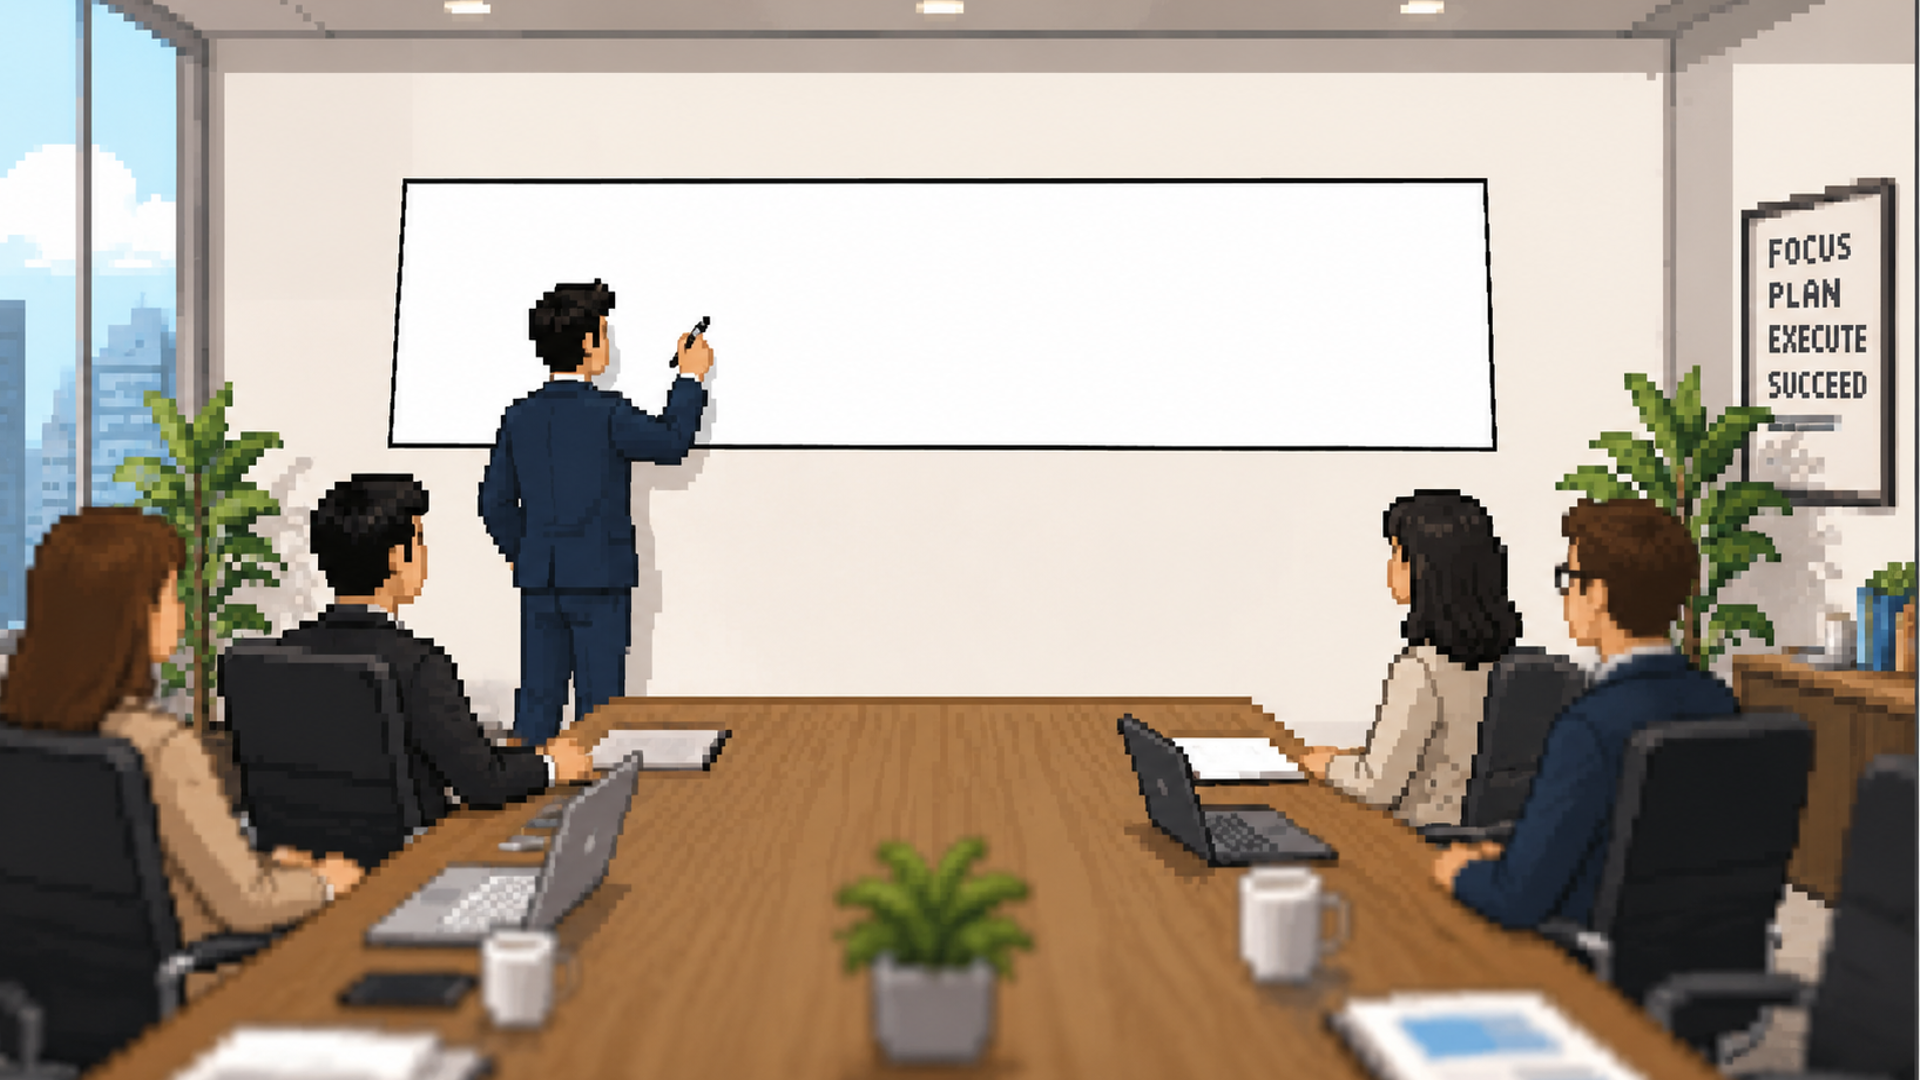
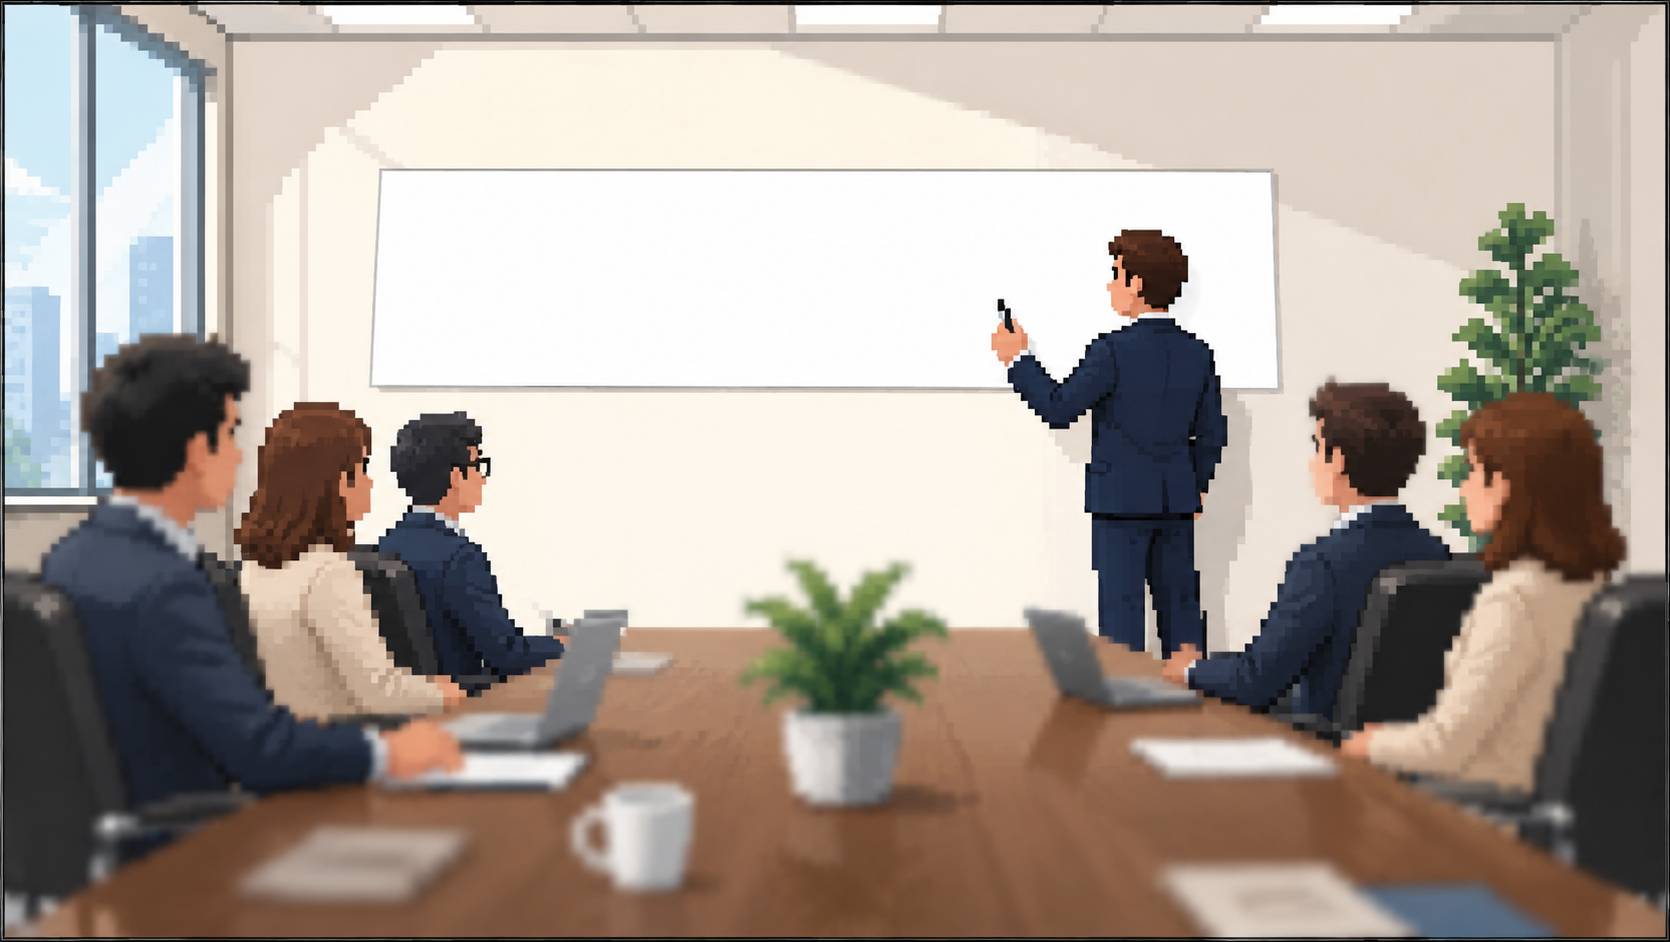
Update battle background and cursors

diff --git a/web-battle/src/styles.css b/web-battle/src/styles.css
@@ -59,7 +59,7 @@ html, body {
 body {
   font-family: "Fusion Pixel SC", "Fusion Pixel", "Press Start 2P", monospace;
   /* 全局像素 2.5D 鼠标指针：金色箭头 + 阴影，热点 (1,0) */
-  cursor: url("/cursors/arrow.svg") 1 0, default;
+  cursor: url("/cursors/arrow.svg?v=solid-black-20260521") 7 2, default;
 }
 
 #root {
@@ -112,7 +112,7 @@ input[type="range"],
 input[type="range"]::-webkit-slider-thumb,
 input[type="checkbox"],
 select {
-  cursor: url("/cursors/hand.svg") 28 10, pointer;
+  cursor: url("/cursors/hand.svg?v=white-black-fill-20260521") 10 0, pointer;
 }
 
 /* 禁用态按钮恢复箭头 */
@@ -120,13 +120,13 @@ button:disabled,
 .candidate:disabled,
 .pack-card:disabled,
 [aria-disabled="true"] {
-  cursor: url("/cursors/arrow.svg") 1 0, not-allowed;
+  cursor: url("/cursors/arrow.svg?v=solid-black-20260521") 7 2, not-allowed;
 }
 
 /* 拖拽中的卡牌：沿用侧面食指，保留 grabbing fallback */
 .card-view.dragging,
 .card-view[draggable="true"]:active {
-  cursor: url("/cursors/hand.svg") 28 10, grabbing;
+  cursor: url("/cursors/hand.svg?v=white-black-fill-20260521") 10 0, grabbing;
 }
 
 button {
@@ -585,7 +585,7 @@ button {
 .battle-photo-bg {
   z-index: 0;
   background:
-    url("/assets/battle/battlebackground.png") center / cover no-repeat,
+    url("/assets/battle/battlebackground.png?v=image1-20260521") center / cover no-repeat,
     #dcecf5;
   image-rendering: pixelated;
   image-rendering: crisp-edges;
@@ -594,17 +594,7 @@ button {
 
 .battle-crt-overlay {
   z-index: 0;
-  background:
-    repeating-linear-gradient(
-      0deg,
-      rgba(255, 255, 255, 0.055) 0 1px,
-      rgba(38, 45, 55, 0.055) 1px 3px,
-      transparent 3px 5px
-    ),
-    radial-gradient(ellipse at center, transparent 58%, rgba(44, 50, 58, 0.2) 100%),
-    linear-gradient(90deg, rgba(255, 255, 255, 0.12), rgba(230, 234, 238, 0.1));
-  mix-blend-mode: luminosity;
-  opacity: 0.54;
+  background: rgba(255, 255, 255, 0.5);
 }
 
 .top-hud,
@@ -3134,6 +3124,11 @@ button {
 .card-stage.slot {
   width: min(109px, 100%);
   height: 151px;
+}
+
+/* slot 禁用 ::after 伪元素提示（改用浮动 portal 提示） */
+.card-stage.slot::after {
+  display: none;
 }
 
 .card-view.slot .neighbor-cue .left,
@@ -7831,19 +7826,19 @@ input[type="range"],
 input[type="range"]::-webkit-slider-thumb,
 input[type="checkbox"],
 select {
-  cursor: url("/cursors/hand.svg") 28 10, pointer;
+  cursor: url("/cursors/hand.svg?v=white-black-fill-20260521") 10 0, pointer;
 }
 
 button:disabled,
 .candidate:disabled,
 .pack-card:disabled,
 [aria-disabled="true"] {
-  cursor: url("/cursors/arrow.svg") 1 0, not-allowed;
+  cursor: url("/cursors/arrow.svg?v=solid-black-20260521") 7 2, not-allowed;
 }
 
 .card-view.dragging,
 .card-view[draggable="true"]:active {
-  cursor: url("/cursors/hand.svg") 28 10, grabbing;
+  cursor: url("/cursors/hand.svg?v=white-black-fill-20260521") 10 0, grabbing;
 }
 
 /* ============================================================================
@@ -7991,13 +7986,13 @@ button:disabled,
 .edit-move-bar,
 .layout-btn,
 .edit-reset-btn {
-  cursor: url("/cursors/hand.svg") 28 10, pointer;
+  cursor: url("/cursors/hand.svg?v=white-black-fill-20260521") 10 0, pointer;
 }
 .edit-move-bar {
-  cursor: url("/cursors/hand.svg") 28 10, move;
+  cursor: url("/cursors/hand.svg?v=white-black-fill-20260521") 10 0, move;
 }
 .edit-handle {
-  cursor: url("/cursors/hand.svg") 28 10, crosshair;
+  cursor: url("/cursors/hand.svg?v=white-black-fill-20260521") 10 0, crosshair;
 }
 
 /* Final HUD meta override: keep right-bottom pile labels readable in every viewport. */

diff --git a/web-battle/src/App.jsx b/web-battle/src/App.jsx
@@ -1166,7 +1166,7 @@ function CardView({
   const neighborDirection = getNeighborDirection(effects)
   const Component = onClick ? 'button' : 'div'
   const canTilt = (mode === 'hand' && selected) || mode === 'reveal'
-  const usesFloatingHint = mode === 'hand'
+  const usesFloatingHint = mode === 'hand' || mode === 'slot'
 
   useEffect(() => {
     return () => window.clearTimeout(handHintTimerRef.current)
@@ -1209,29 +1209,31 @@ function CardView({
 
   function updateFloatingHint(event) {
     if (!usesFloatingHint) return
-    const offset = 16
-    const hintWidth = 244
-    const hintHeight = 104
-    // 鼠标位置转设计画布坐标，因为浮窗 (fixed) 在 .app-scaler 内
-    const p = clientToDesign(event.clientX, event.clientY)
-    const nearRight = p.x + offset + hintWidth > DESIGN_CANVAS_W
-    const nearBottom = p.y + offset + hintHeight > DESIGN_CANVAS_H
+    // 提示框使用 position:fixed（在 body 上 portal），直接用视口坐标
+    const cx = event.clientX
+    const cy = event.clientY
+    const offset = 14       // 紧贴指针，视口像素
+    const hintW = 220       // 提示框估算宽度（视口像素）
+    const hintH = 72        // 提示框估算高度
+    const nearRight  = cx + offset + hintW > window.innerWidth
+    const nearBottom = cy + offset + hintH > window.innerHeight
+    // left/top 始终指向指针旁的锚点；CSS class 再用 translate(-100%) 翻转到另一侧
     const nextHint = {
-      left: p.x + (nearRight ? -offset : offset),
-      top: p.y + (nearBottom ? -offset : offset),
-      x: nearRight ? 'left' : 'right',
-      y: nearBottom ? 'top' : 'bottom',
+      left: cx + (nearRight ? -offset : offset),
+      top:  cy + (nearBottom ? -offset : offset),
+      x: nearRight  ? 'left'  : 'right',
+      y: nearBottom ? 'top'   : 'bottom',
     }
     pendingHandHintRef.current = nextHint
     if (handHint) {
-      setHandHint(nextHint)
+      setHandHint(nextHint)   // 已显示时实时跟随
       return
     }
     if (handHintTimerRef.current) return
     handHintTimerRef.current = window.setTimeout(() => {
       setHandHint(pendingHandHintRef.current)
       handHintTimerRef.current = null
-    }, 1000)
+    }, 500)   // 0.5 秒后出现
   }
 
   function hideFloatingHint() {